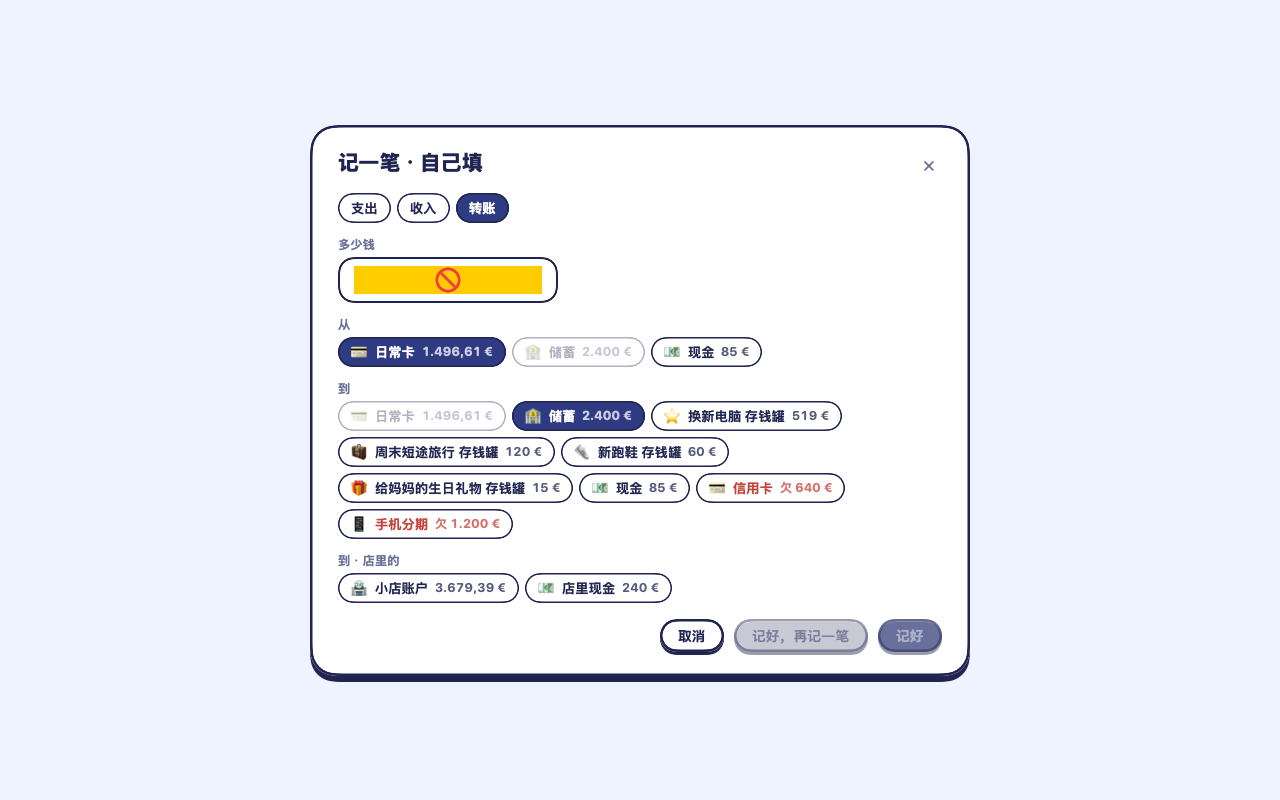
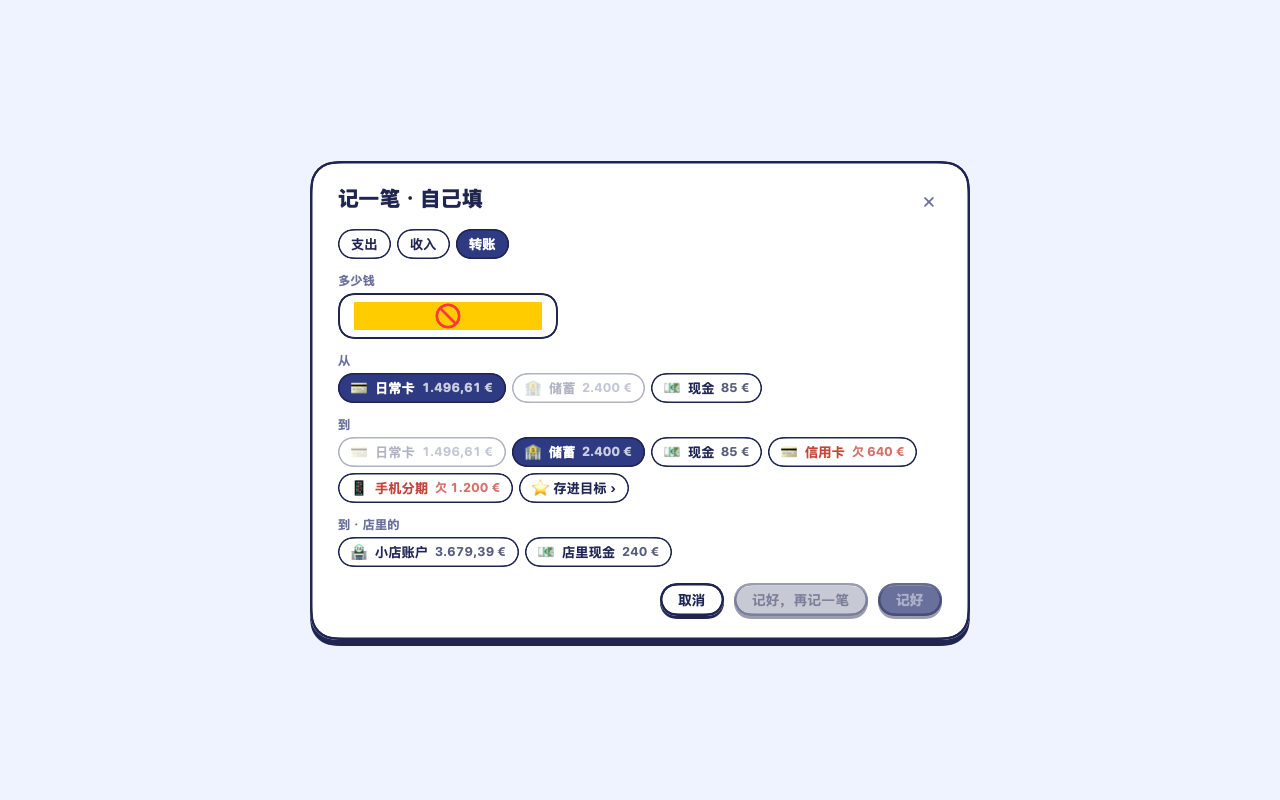
转账「到」那一行：目标的存钱罐收成一个「存进目标 ›」，点开再挑哪个目标

Changed region(s): [[0.2188, 0.1562, 0.7812, 0.875]]

diff --git a/Sources/LedgerUI/V3/V3Sheets.swift b/Sources/LedgerUI/V3/V3Sheets.swift
@@ -281,6 +281,11 @@ struct V3ManualSheet: View {
         self.embedded = embedded; self.done = done
         _kind = State(initialValue: startKind)
     }
+    /// 出图用：转账那一种，目标那一行一打开就是展开的。
+    init(startKind: Int, jarsOpen: Bool) {
+        self.init(startKind: startKind)
+        _showJars = State(initialValue: jarsOpen)
+    }
     @State private var amount = ""
     @State private var place = ""
     /// 分类一开始不选：免得什么都被记成同一类。
@@ -289,6 +294,8 @@ struct V3ManualSheet: View {
     @State private var account = 0
     @State private var from = ""
     @State private var to = ""
+    /// 转账「到」那一行：目标的存钱罐展开没有。
+    @State private var showJars = false
     @State private var daysAgo = 0
     @State private var pickingDate = false
     @State private var note = ""
@@ -365,14 +372,33 @@ struct V3ManualSheet: View {
         V3FormField(label: "多少钱", prompt: "200", text: $amount, big: true, focus: true).frame(width: 220)
         V3AmountHint(text: amount)
         pillRow("从", b.transferSources(bookSide), picked: from, other: to) { from = $0 }
-        pillRow("到", b.transferTargets(bookSide), picked: to, other: from) { to = $0 }
+        // 「到」这一行：目标的存钱罐有好几个时收成一个「存进目标 ›」，点开再挑哪个目标，免得一排排满（ming 2026-11-28）
+        let targets = b.transferTargets(bookSide)
+        let jars = targets.filter { $0.block == .goal }
+        if jars.count > 1 {
+            let inJar = jars.contains { $0.name == to }
+            pillRow("到", targets.filter { $0.block != .goal }, picked: to, other: from,
+                    extra: (title: inJar ? "⭐ 存进目标 · \(Self.goalName(to))" : "⭐ 存进目标 ›", on: inJar, action: { withAnimation(.snappy(duration: 0.15)) { showJars.toggle() } })) { to = $0; showJars = false }
+            if showJars {
+                pillRow("存进哪个目标", jars, picked: to, other: from) { to = $0; showJars = false }
+            }
+        } else {
+            pillRow("到", targets, picked: to, other: from) { to = $0 }
+        }
         if !cross.isEmpty {
             pillRow(bookSide == .life ? "到 · 店里的" : "到 · 生活的", cross, picked: to, other: from) { to = $0 }
         }
     }
 
     /// 一行账户胶囊：图标 + 名字 + 余额。选中的深色；另一行已经选了的那个变灰、点不了。
-    private func pillRow(_ label: String, _ choices: [V3State.Account], picked: String, other: String, pick: @escaping (String) -> Void) -> some View {
+    /// 存钱罐的名字去掉后面的「存钱罐」三个字，就是目标叫什么。
+    static func goalName(_ jar: String) -> String {
+        let n = jar.replacingOccurrences(of: "存钱罐", with: "").trimmingCharacters(in: .whitespaces)
+        return n.isEmpty ? jar : n
+    }
+
+    private func pillRow(_ label: String, _ choices: [V3State.Account], picked: String, other: String,
+                         extra: (title: String, on: Bool, action: () -> Void)? = nil, pick: @escaping (String) -> Void) -> some View {
         VStack(alignment: .leading, spacing: 5) {
             V3Label(label, size: 12.5, weight: .bold)
             FlowLayout(spacing: 6) {
@@ -390,6 +416,15 @@ struct V3ManualSheet: View {
                     }
                     .buttonStyle(V3SinkStyle(depth: 2)).disabled(taken).opacity(taken ? 0.35 : 1)
                     .accessibilityLabel("\(label)：\(a.name)").accessibilityAddTraits(on ? .isSelected : [])
+                }
+                if let extra {
+                    Button(action: extra.action) {
+                        Text(extra.title).font(V3.font(13.5, .bold)).lineLimit(1)
+                            .foregroundStyle(extra.on ? .white : V3.ink)
+                            .padding(.horizontal, 12).padding(.vertical, 7)
+                            .background(Capsule().fill(extra.on ? V3.navy : .white).overlay(Capsule().strokeBorder(V3.ink, lineWidth: 1.5)))
+                    }
+                    .buttonStyle(V3SinkStyle(depth: 2)).accessibilityLabel("\(label)：存进目标，点开挑哪一个")
                 }
             }
         }

diff --git a/Tests/LedgerUITests/V3StateTests.swift b/Tests/LedgerUITests/V3StateTests.swift
@@ -929,6 +929,22 @@ final class V3StateTests: XCTestCase {
         XCTAssertEqual(V3ShopAccountSheet.freeName("店的信用卡", taken: []), "店的信用卡")
     }
 
+    /// 转账「到」那一行把存钱罐收起来以后，能选的账户一个没少：别的账户 + 展开后的存钱罐 = 原来那一整排。
+    func testTransferTargetsSplitIntoPlainAccountsAndGoalJars() {
+        let b = TrialBook.demo
+        let all = b.transferTargets(.life)
+        let jars = all.filter { $0.block == .goal }, plain = all.filter { $0.block != .goal }
+        XCTAssertGreaterThan(jars.count, 1, "示例里有好几个目标的存钱罐，所以会收起来")
+        XCTAssertEqual(Set(jars.map(\.name)).union(plain.map(\.name)), Set(all.map(\.name)))
+        XCTAssertEqual(V3ManualSheet.goalName("换新电脑 存钱罐"), "换新电脑")
+        XCTAssertEqual(V3ManualSheet.goalName("存钱罐"), "存钱罐")
+        // 存进收起来的那个罐子照样转得进去
+        var book = b
+        let jar = jars[1].name, from = b.transferSources(.life).first { $0.balance > Money(cents: 50_00) }!.name
+        XCTAssertNoThrow(try book.transferAny(Money(cents: 20_00), from: from, to: jar))
+        XCTAssertEqual(book.account(jar)?.balance, b.account(jar)!.balance + Money(cents: 20_00))
+    }
+
     func testNewLookSharesTheAppsLedgerModel() throws {
         // app 的账本模型（内存里的示例账本，不碰任何文件）；新界面接在它上面
         let model = LedgerModel.demo()

diff --git a/Tests/LedgerUITests/V3RenderTests.swift b/Tests/LedgerUITests/V3RenderTests.swift
@@ -43,6 +43,8 @@ final class V3RenderTests: XCTestCase {
             st.manualStartKind = k
             try write(V3ManualSheet(startKind: k).environment(st), "manual-\(k)", to: dir)
         }
+        let open = V3State(); open.onboardingStep = nil; open.side = .life
+        try write(V3ManualSheet(startKind: 2, jarsOpen: true).environment(open), "manual-2-jars", to: dir)
         s.page = .settings
         try write(V3SettingsPage().environment(s), "real-settings-home", to: dir)
         XCTAssertNotNil(s.model); _ = model
